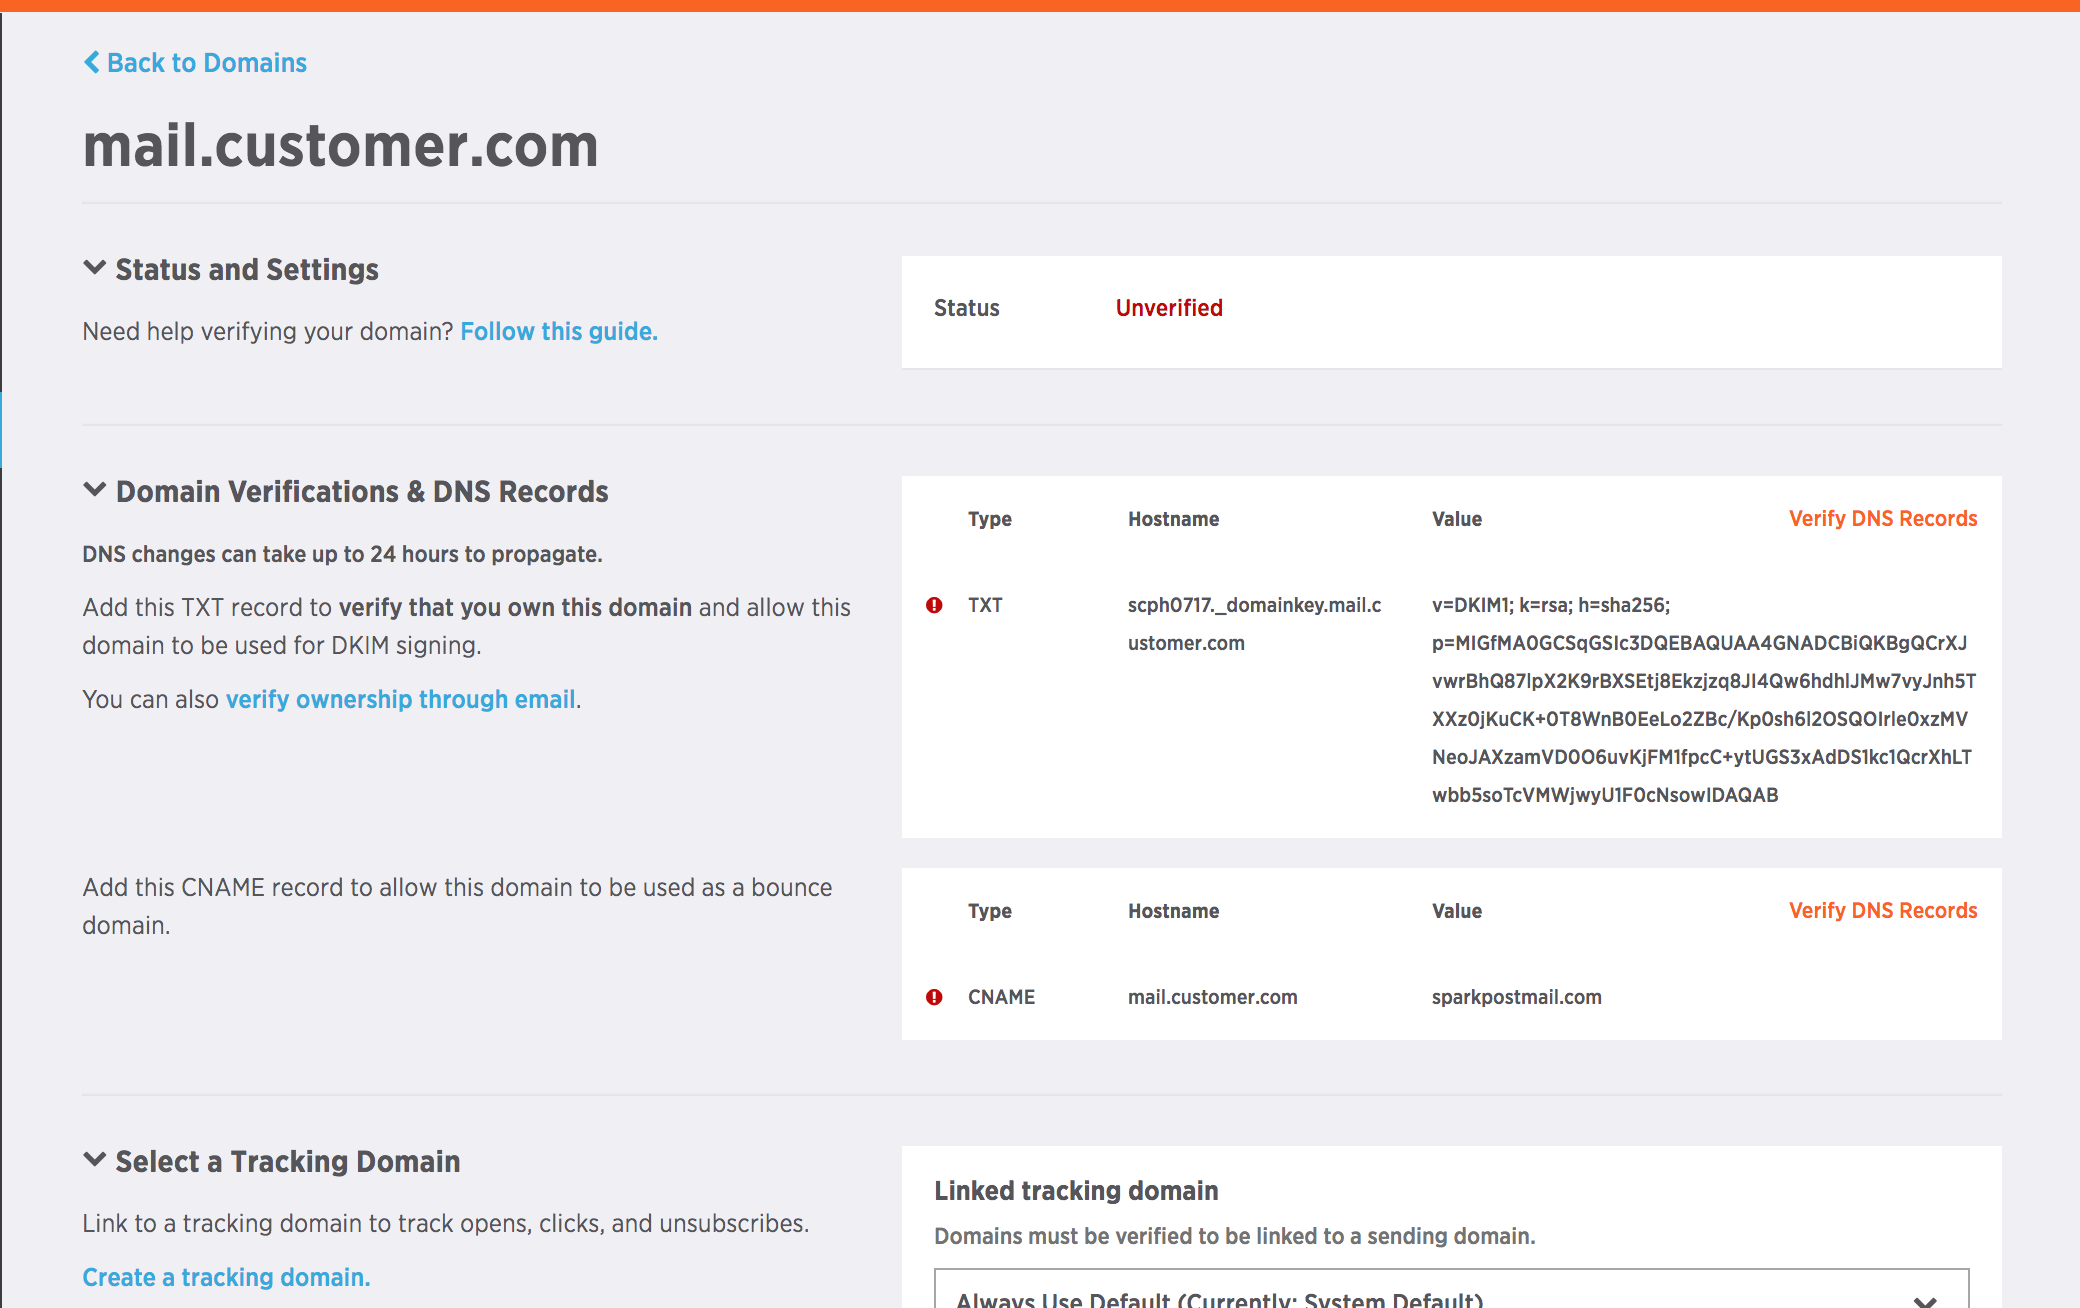
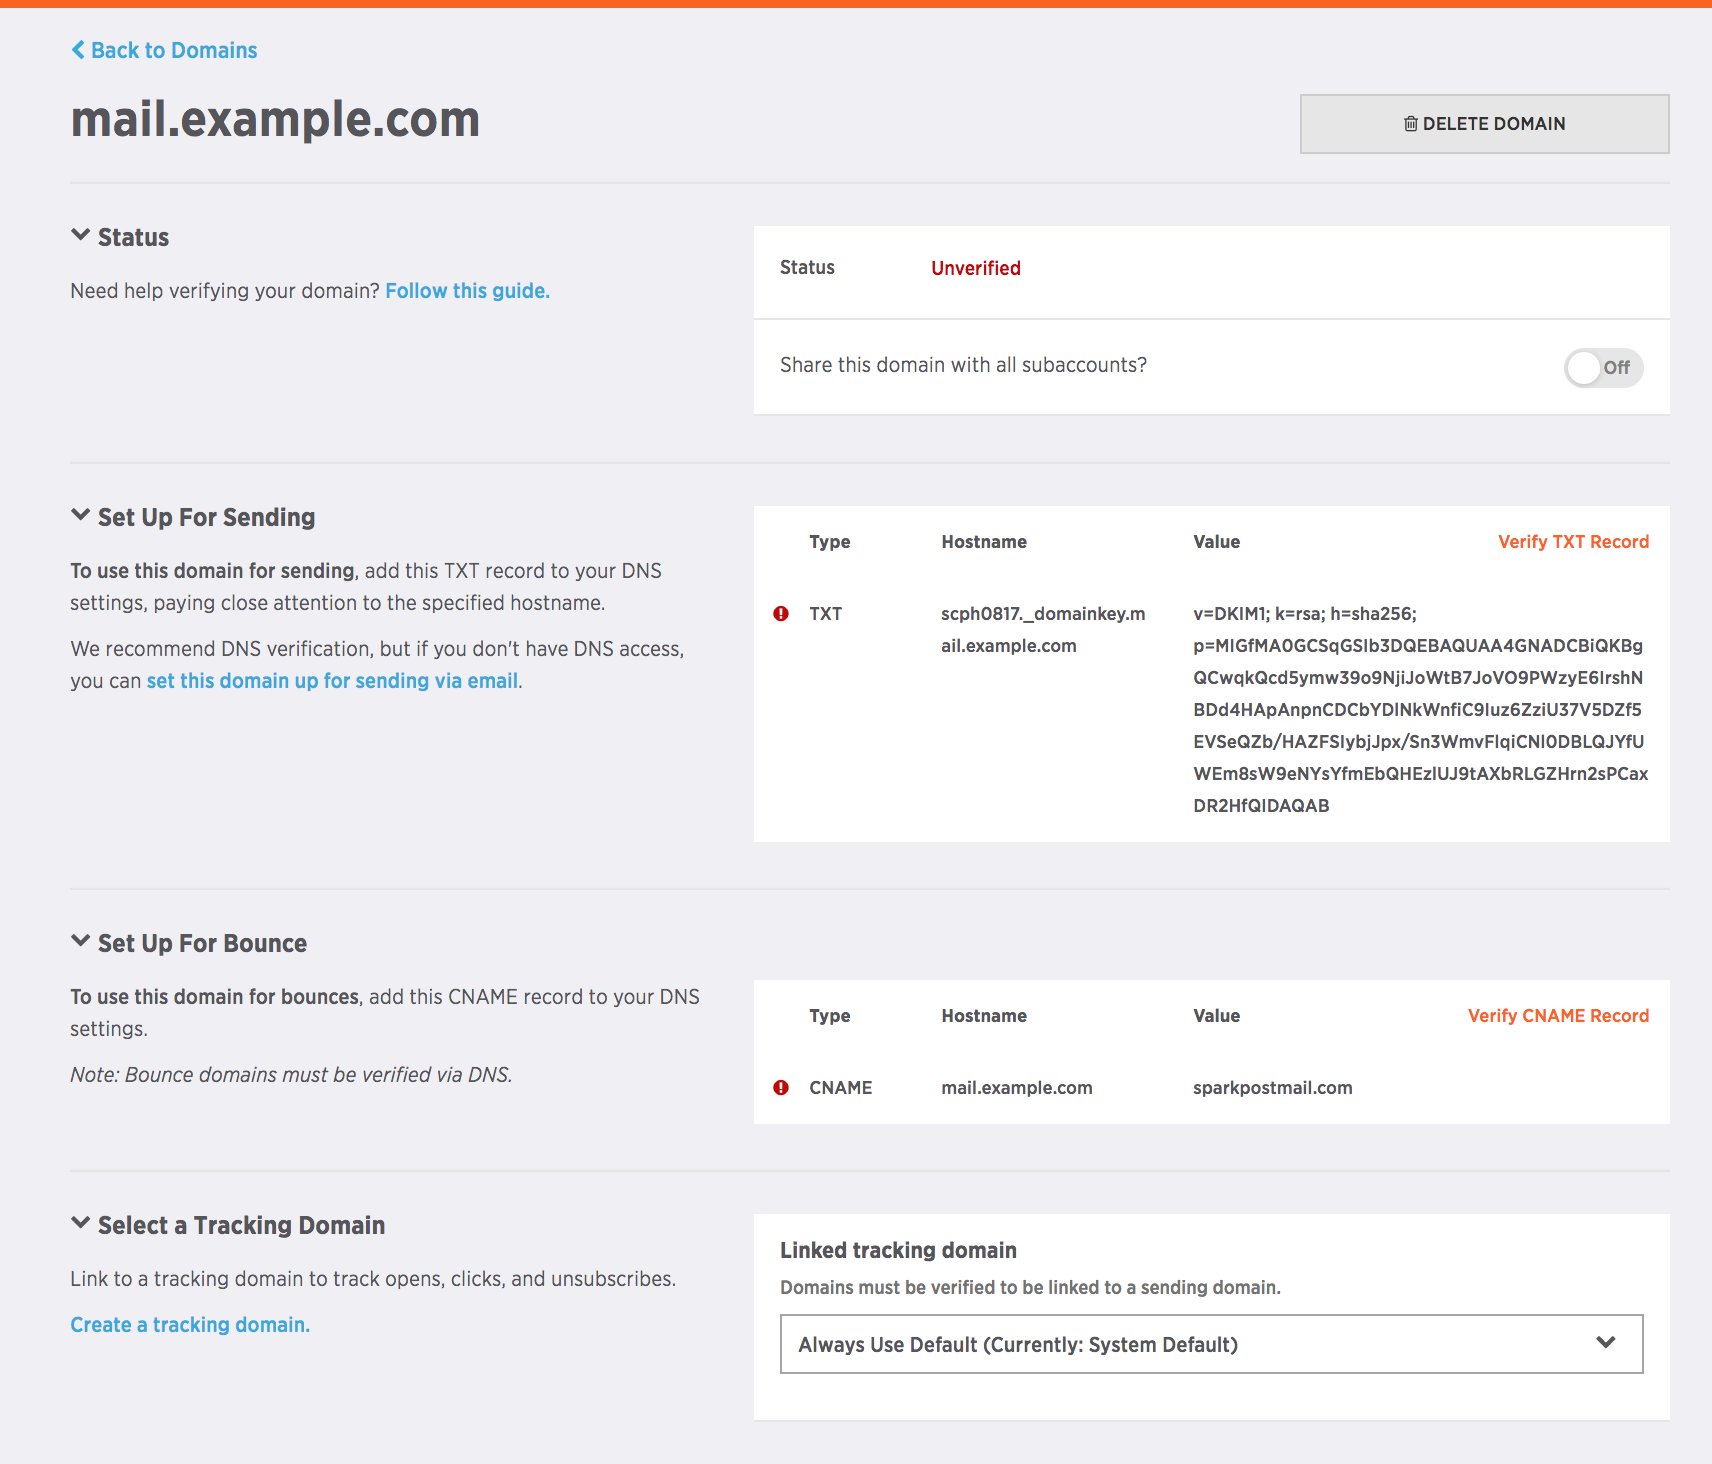
New domains UI: updated Getting Started

diff --git a/articles/getting-started/getting-started-sparkpost.md b/articles/getting-started/getting-started-sparkpost.md
@@ -21,7 +21,7 @@ Note: SparkPost is a developer-centric email delivery service. That means pretty
 
 First things first: sign up for your free SparkPost account [here](https://app.sparkpost.com/sign-up). After sign-up, SparkPost will send you a verification email; please do verify your email address so SparkPost can contact you if you need support later on and send you important service announcements.
 
-## Preparing Your "From:" Address, or Sending Domain
+## Preparing Your "From:" Address
 
 The very first thing your recipients see when they open your email is your address in the From field so it's important to set it properly from the get-go. In SparkPost, that means creating a sending domain, the domain name you'll use to send email from. You can either use a top-level domain such as *myawesomedomain.com* or, if you prefer, a subdomain like *mail.myawesomedomain.com*. You can register as many sending domains as you need on your SparkPost account.
 
@@ -51,11 +51,12 @@ If you didn't create a sending domain during your sign up process, you can [add 
 
 ### Sending Domain Step 2: Verifying Domain Ownership
 
-Before you can send mail using your sending domain, SparkPost needs to verify that you own it. Adding a DNS record to your domain is the recommended way to complete this verification. On the edit screen, there will be a TXT record value along with a funny-looking hostname where SparkPost expects to find that TXT record. For example, the demo hostname shown below is `scph0717._domainkey.mail.customer.com` and the value of the TXT record begins with "v=DKIM1;". For now you can ignore the CNAME instructions. [We'll explain those later](#custom-bounce-domain).
+Before you can send mail using your sending domain, SparkPost needs to verify that you own it. Adding a DNS record to your domain is the recommended way to complete this verification. The edit screen, under _Set Up For Sending_, shows a TXT record value along with a funny-looking hostname where SparkPost expects to find that TXT record. For example, the demo hostname shown below is `scph0717._domainkey.mail.customer.com` and the value of the TXT record begins with "v=DKIM1;".
 
 ![Domain DNS verification section](media/getting-started-sparkpost/domain-verification.png)
 
-Once you've set up the DNS TXT record, come back to the edit screen and click "Verify DNS Records". Unfortunately, some DNS records take longer to update than others, so you may have to try this a few times or, in rare cases, come back up to 24 hours later and click "Verify DNS Records" again. If you want, you can check to see if the DNS value has updated using a service like https://whatsmydns.net. Just be sure to use the correct hostname there, too.
+
+Once you've set up the DNS TXT record, come back to the edit screen and click "Verify TXT Record". Unfortunately, some DNS records take longer to update than others, so you may have to try this a few times or, in rare cases, come back up to 24 hours later and click "Verify TXT Record" again. If you want, you can check to see if the DNS value has updated using a service like https://whatsmydns.net. Just be sure to use the correct hostname there, too.
 
 You're almost done! While you've been verifying ownership of your domain, the addition of this DKIM DNS record will [also help your reputation as an email sender](https://www.sparkpost.com/docs/faq/why-configure-dkim/). DKIM is a widely-used email standard that most email services will use to verify that your emails were in fact sent by you and weren't intercepted or changed along the way. Your hard work is paying off already.
 
@@ -186,7 +187,7 @@ Each email you send will have 2 main sender addresses:
 
 By default, SparkPost uses a generic bounce domain for your email, such as *sparkpostmail.com*. In SparkPost, you can create custom bounce domains to control the branding of your emails more fully as well as to create a deliverability best practice known as SPF alignment. Creating a related bounce domain creates "relaxed alignment", which is good (e.g. mail.example.com and bounces.example.com), while setting up an existing sending domain as a bounce domain creates "strict alignment", which is even better (e.g. mail.example.com used as both).
 
-To do this, visit [the Sending Domains page](https://app.sparkpost.com/account/sending-domains) and either create a new domain or edit an existing sending domain. In either case, **you will need to edit DNS records to set up your bounce domain** (no other verification methods are available for bounce domain setup). Add the CNAME record with the provided value, click "Verify DNS Records" (DNS updates can take up to 24 hours to complete, but are usually available within an hour), and the domain will show up as "Ready for: Bounce" (along with anything else it was already ready for).
+To do this, visit [the Sending Domains page](https://app.sparkpost.com/account/sending-domains) and either create a new domain or edit an existing sending domain. In either case, **you will need to edit DNS records to set up your bounce domain** (no other verification methods are available for bounce domain setup). Add the CNAME record with the value shown under _Set Up For Bounce_, click "Verify CNAME Record" (DNS updates can take up to 24 hours to complete, but are usually available within an hour), and the domain will show up as "Ready for: Bounce" (along with anything else it was already ready for).
 
 ![Domain DNS verification section](media/getting-started-sparkpost/domain-verification.png)
 
@@ -200,7 +201,7 @@ You can use message events, metrics, and webhooks to keep track of your SparkPos
 
 ![Summary report](media/getting-started-sparkpost/summary-report.png)
 
-*Summary report*
+<div align="center"><em>Summary report</em></div>
 
 ### Message Events
 
@@ -208,7 +209,7 @@ Message events offer fine grained, per-recipient details, useful for checking th
 
 ![SparkPost message events in sequence](media/getting-started-sparkpost/message-events.png)
 
-*SparkPost message events in sequence*
+<div align="center"><em>SparkPost message events in sequence</em></div>
 
 You can search 10 days of message events from your account in Reports -> [Message Events](https://app.sparkpost.com/reports/message-events) with the same data available through the [message events API endpoint](https://developers.sparkpost.com/api/message-events.html).
 
